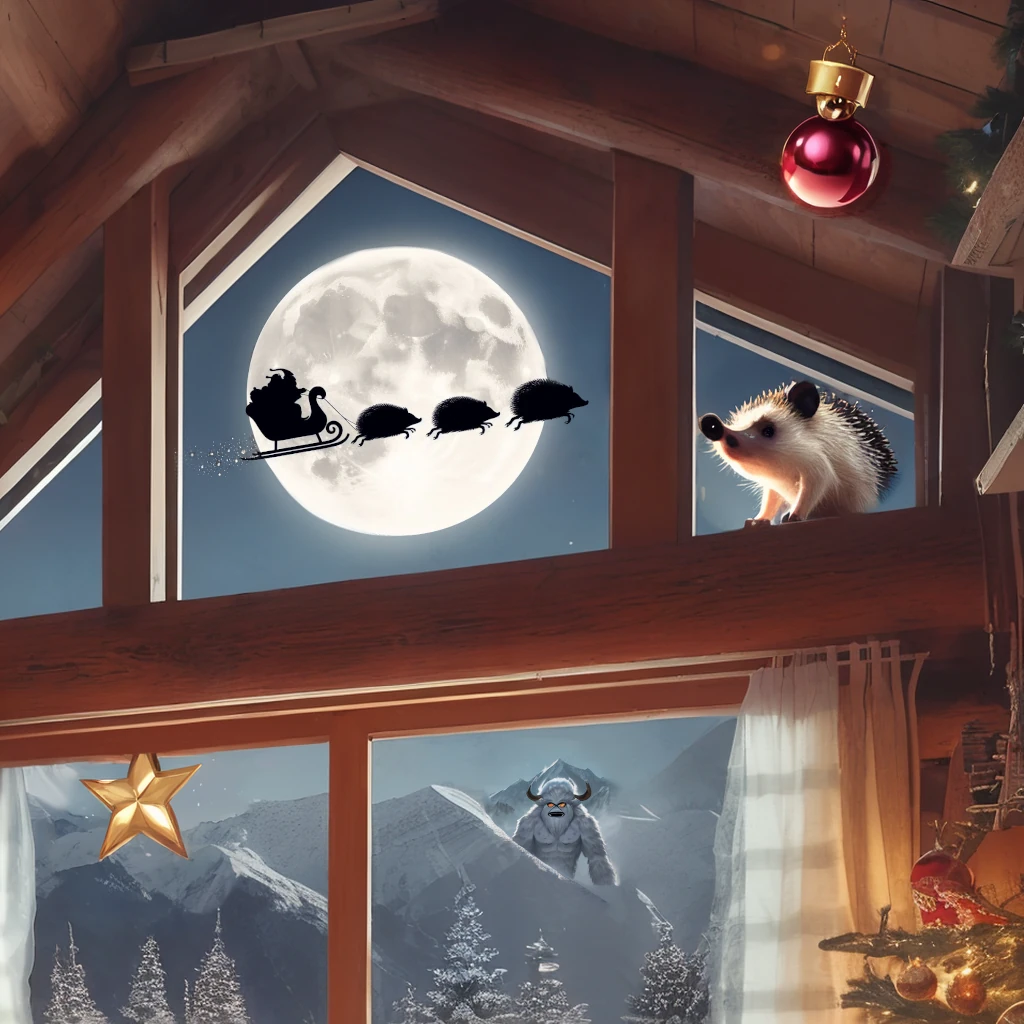
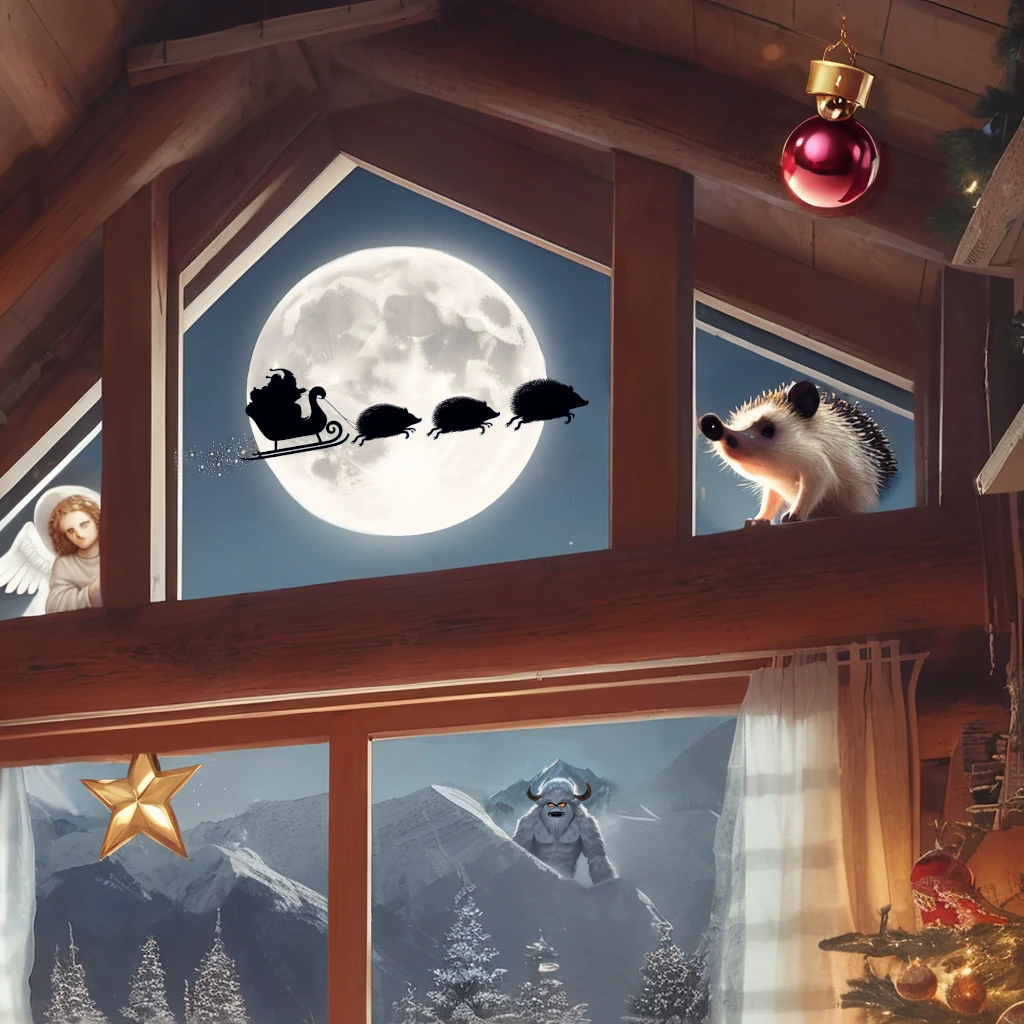
Final doors 18 and 22, as well as some quality fixes.

Changed region(s): [[0.0, 0.4688, 0.125, 0.625], [0.0625, 0.75, 0.0938, 0.7812]]

diff --git a/indexXL.html b/indexXL.html
@@ -148,7 +148,7 @@
     
 
       <div class="title">
-        <h1><span class="title-1">Henke's</span><span class="title-2">Christmas</span><span class="title-3">Calendar</span></h1>
+        <h1><span class="title-1"></span><span class="title-2">Henkes Julkalender</span><span class="title-3"></span></h1>
       </div>
       <div class="day day-1" data-day=1>
         <label>

diff --git a/stylesXL.css b/stylesXL.css
@@ -642,6 +642,10 @@ footer a {
     height: 200px;
     width: 200px;
   }
+
+  .door {
+    background: url(assets/xl/18c.png);  
+  }
 }
 .calendar-grid .day-19 {
   top: 1716px;
@@ -677,6 +681,9 @@ footer a {
 .calendar-grid .day-22 {
   top: calc(1024px + 692px);
   left: 370px;
+  .door {
+    background: url(assets/xl/22c.png);
+  }
 }
 
 .calendar-grid .day-25 {
